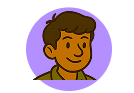
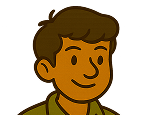
Updated character routes and added updated pfps

diff --git a/app/dashboard/game/page.tsx b/app/dashboard/game/page.tsx
@@ -8,7 +8,7 @@ import DecisionProgressBar from "@/components/DecisionProgressBar";
 import { ChatMessage } from "@/components/ChatMessage";
 
 interface NarrativeDialogue {
-  character: "Rani" | "Ali" | "Yash" | "Nisha" | "Narrator";
+  character: "Rani" | "Ali" | "Santosh" | "Manju" | "Rajesh" | "Narrator";
   pfp: string;
   text: string;
 }
@@ -36,8 +36,9 @@ const getCharacterImagePath = (characterName: string | null): string | null => {
     switch (characterName.toLowerCase()) {
         case 'rani':      return `${basePath}rani.png`;
         case 'ali':       return `${basePath}ali.png`;
-        case 'yash':      return `${basePath}yash.png`;
-        case 'nisha':     return `${basePath}nisha.png`;
+        case 'santosh':      return `${basePath}santosh.png`;
+        case 'manju':     return `${basePath}manju.png`;
+        case 'rajesh':     return `${basePath}rajesh.png`;
         case 'narrator':  return `${basePath}narrator.png`; // Assuming you might want a narrator image
         default:
             console.warn(`Mapping not found for character image: ${characterName}`);
@@ -335,7 +336,7 @@ export default function NarrativeGamePage() {
                 // Ensure pfp is passed, provide empty string as fallback for component's placeholder
                 avatarUrl={msg.pfp || ''}
                 // Let the component handle the fallback text generation (e.g., first letter of name)
-                className="animate-fade-in-short mb-16" // Added mb-6 for consistent spacing with user messages
+                className="animate-fade-in-short mb-14" // Added mb-6 for consistent spacing with user messages
               />
             )
           ))}

diff --git a/app/api/lessons/route.ts b/app/api/lessons/route.ts
@@ -119,11 +119,19 @@ The current learning goal is "${goalName}". Goal Description: "${goalDescription
 Note: The player already knows who the characters are so they do not need to introduce themselves. 
 
 Scenario Characters & Assets:
-- Rani Singh: pfp=/game/character_pfp/rani.png, image=/game/characters/rani.png
-- Ali Shetty: pfp=/game/character_pfp/ali.png, image=/game/characters/ali.png
-- Yash Patel: pfp=/game/character_pfp/yash.png, image=/game/characters/yash.png
-- Nisha Kapoor: pfp=/game/character_pfp/nisha.png, image=/game/characters/nisha.png
+- Rani: pfp=/game/character_pfp/rani.png, image=/game/characters/rani.png
+- Ali: pfp=/game/character_pfp/ali.png, image=/game/characters/ali.png
+- Santosh: pfp=/game/character_pfp/santosh.png, image=/game/characters/santosh.png
+- Manju: pfp=/game/character_pfp/manju.png, image=/game/characters/manju.png
+- Rajesh: pfp=/game/character_pfp/rajesh.png, image=/game/characters/rajesh.png
 - Narrator: pfp=/game/character_pfp/narrator.png, image=/game/characters/narrator.png
+
+Scenario Characters:
+- Rani: Enthusiastic Mentor
+- Ali: Apprentice/Partner
+- Manju: Govt. Associate/Investor
+- Rajesh: The Competitor 
+- Narrator: Narrates scenario
 
 Scenario Structure & State Tracking:
 1. Start: narrativeSteps + FIRST decisionPoint (count 0->1).
